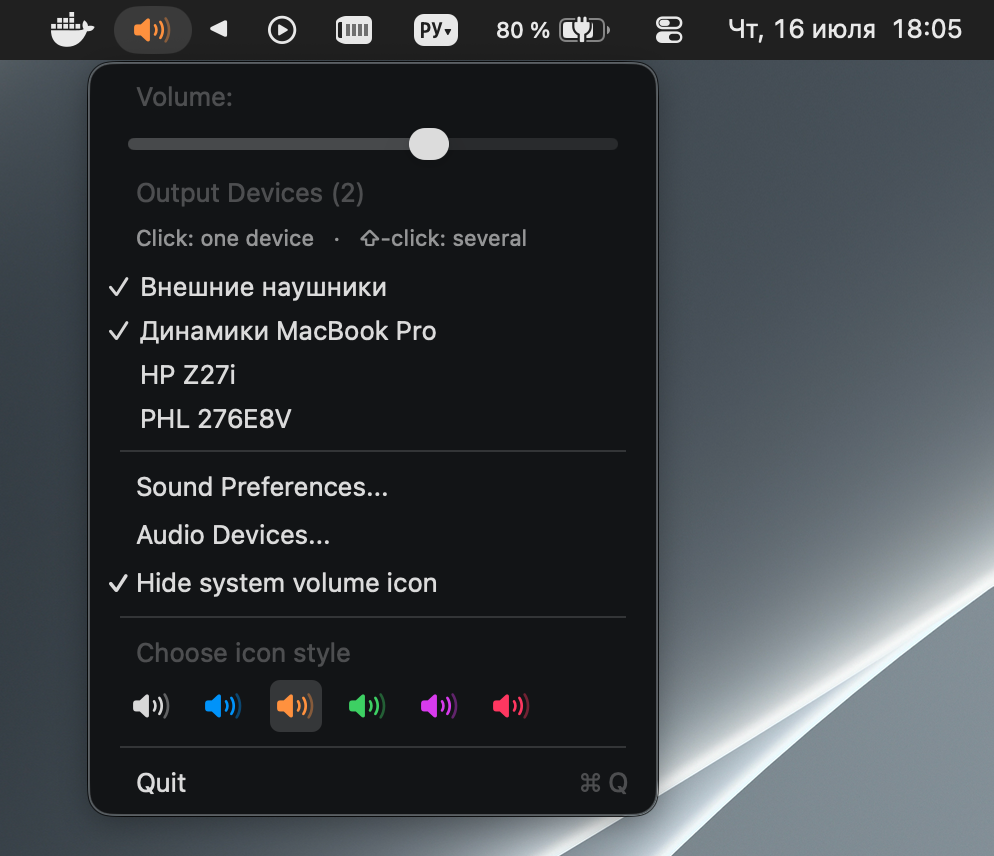
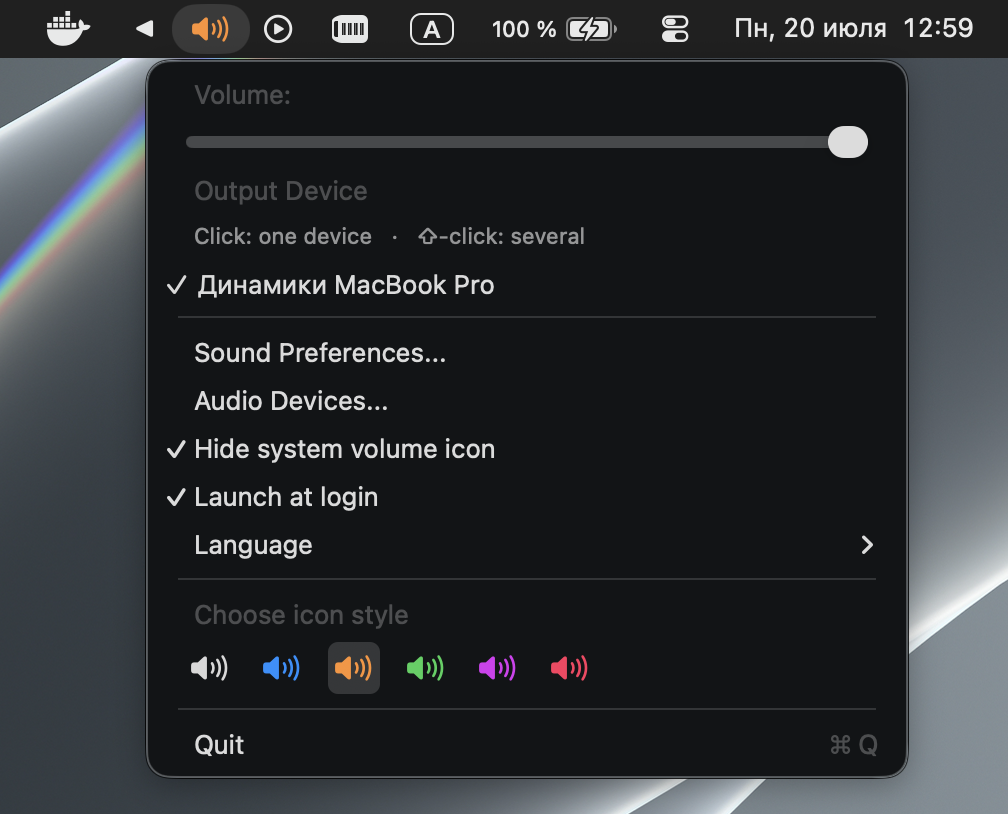
docs(readme): document localization and refresh menu screenshot
Add the 10-language switcher to the feature list and a Usage section for
picking the interface language; update the menu screenshot to the current
UI (Language submenu, Launch at login). Catches README/screenshot up to
v1.5.0 — they had lagged two releases behind.

diff --git a/README.md b/README.md
@@ -1,5 +1,5 @@
 <p align="center">
-  <img width="440" src="screenshots/menu.png" alt="MultiSoundChanger2 menu: multi-output device selection, hide system icon, and icon tint">
+  <img width="440" src="screenshots/menu.png" alt="MultiSoundChanger2 menu: multi-output device selection, hide system icon, icon tint, and language selection">
 </p>
 
 ## MultiSound Changer for macOS — Tahoe / Apple Silicon fork
@@ -31,6 +31,9 @@ Features:
 * **Media keys** (volume up / down / mute) drive the selected device, aggregate included.
 * **Launch at login.** Optionally start the app automatically when you log in (off by default;
   available on macOS 13+).
+* **10 interface languages.** Switch the language straight from the menu (**Language ▶**) with no
+  relaunch: English, Русский, Español, Français, 中文, Deutsch, Italiano, Português (Brasil), 日本語,
+  한국어. Defaults to **System (follows macOS)**.
 * **Native look** — follows the system light/dark appearance.
 * **Universal binary** — runs natively on Apple Silicon and Intel, macOS 11+ including Tahoe.
 
@@ -97,6 +100,12 @@ Pick one of the colour swatches in the menu (Blue / Orange / Green / Purple / Pi
 app's own icon, as another way to tell it apart from the system one at a glance. Each swatch previews
 the actual icon in that colour. "Default" resets it to the normal look. The choice is remembered
 across restarts.
+
+### Choosing the interface language
+
+Open **Language** in the menu and pick one of ten languages, or leave it on **System (follows
+macOS)** to track your macOS language. The change applies immediately — no restart. Each language is
+listed under its own name, sorted alphabetically. The choice is remembered across restarts.
 
 The app needs **accessibility permission** to observe media keys, and will ask on first launch.
 